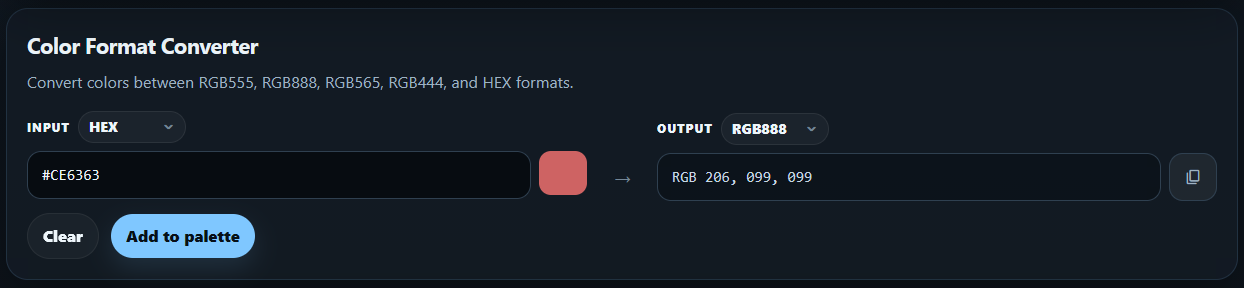
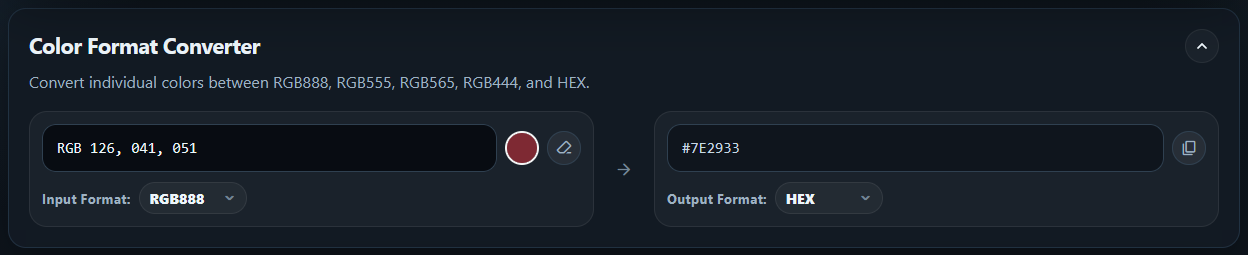
Remove fit button. Update README.md

diff --git a/js/sprite-recolorer.js b/js/sprite-recolorer.js
@@ -217,19 +217,10 @@ function initSpriteRecolorer() {
       return;
     }
 
-    let scale = spriteZoom;
-    if (spriteZoom === "fit") {
-      const boxes = [originalCanvas.parentElement, previewCanvas.parentElement];
-      const availableWidth = Math.min(...boxes.map(box => Math.max(1, box.clientWidth - 24)));
-      const availableHeight = Math.min(...boxes.map(box => Math.max(1, box.clientHeight - 24)));
-      const maximumScale = Math.min(availableWidth / originalImageData.width, availableHeight / originalImageData.height);
-      scale = Math.max(1, Math.min(8, Math.floor(maximumScale)));
-    }
-
-    originalCanvas.style.width = `${originalImageData.width * scale}px`;
-    originalCanvas.style.height = `${originalImageData.height * scale}px`;
-    previewCanvas.style.width = `${originalImageData.width * scale}px`;
-    previewCanvas.style.height = `${originalImageData.height * scale}px`;
+    originalCanvas.style.width = `${originalImageData.width * spriteZoom}px`;
+    originalCanvas.style.height = `${originalImageData.height * spriteZoom}px`;
+    previewCanvas.style.width = `${originalImageData.width * spriteZoom}px`;
+    previewCanvas.style.height = `${originalImageData.height * spriteZoom}px`;
   }
 
   function recolorSprite() {
@@ -536,14 +527,10 @@ function initSpriteRecolorer() {
 
   zoomButtons.forEach(button => {
     button.addEventListener("click", () => {
-      spriteZoom = button.dataset.zoom === "fit" ? "fit" : Number(button.dataset.zoom);
+      spriteZoom = Number(button.dataset.zoom);
       zoomButtons.forEach(btn => btn.classList.toggle("active", btn === button));
       applySpriteZoom();
     });
-  });
-
-  window.addEventListener("resize", () => {
-    if (spriteZoom === "fit") applySpriteZoom();
   });
 
   resetSwapColorsBtn.addEventListener("click", () => {

diff --git a/index.html b/index.html
@@ -225,7 +225,6 @@
               <button class="zoom-btn active" type="button" data-zoom="1">1×</button>
               <button class="zoom-btn" type="button" data-zoom="2">2×</button>
               <button class="zoom-btn" type="button" data-zoom="4">4×</button>
-              <button class="zoom-btn" type="button" data-zoom="fit">Fit</button>
             </div>
           </div>
         </div>

diff --git a/README.md b/README.md
@@ -1,150 +1,172 @@
 # RetroColorLab
 
-RetroColorLab is a client-side toolkit for the color workflows behind pixel art and retro games. It combines color-format conversion, reusable palette management, and real-time sprite recoloring in one focused interface.
+**A local-first color workflow for pixel art and retro game graphics.**
 
-The project is built with vanilla JavaScript and the Canvas API. Images and palettes are processed locally, saved palettes persist in IndexedDB, and the application requires no account, backend, build step, or server-side image handling.
+RetroColorLab converts constrained color formats, extracts and remaps sprite colors in real time, and builds reusable palette libraries—all in the browser. Uploaded artwork and saved palettes stay on the user's device; there is no account, backend, build pipeline, or server-side image processing.
 
-It is designed for pixel artists, retro game developers, and ROM hackers working with constrained-color systems such as the Game Boy Color, GBA, NES, and SNES.
+**Current implementation:** July 20, 2026
 
-**[Live demo →](https://mwalton1204.github.io/RetroColorLab/)**
+**[Open the live application →](https://mwalton1204.github.io/RetroColorLab/)**
 
----
+## Engineering highlights
 
-## Project highlights
+- **Real-time pixel processing:** deduplicates opaque source colors from `ImageData` and recolors pixels through an RGB lookup map.
+- **Shared color pipeline:** one parser and formatter supports RGB888, RGB555, RGB565, RGB444, and HEX across every tool.
+- **Local-first persistence:** palettes, color names, folders, and manual ordering are stored in IndexedDB.
+- **Interoperable palette files:** reads and writes JASC PAL, GIMP GPL, and plain-text RGB formats without assuming that a `.pal` extension identifies its encoding.
+- **Pixel-art-safe previewing:** uses integer-only 1×, 2×, and 4× display scaling with disabled image smoothing.
+- **Framework-free architecture:** vanilla JavaScript, Canvas, IndexedDB, semantic HTML, and CSS; no bundler or installation step.
 
-- **A complete browser-based workflow:** convert retro color formats, build reusable palettes, apply them to sprites, and export the result without leaving the page
-- **Purpose-built image processing:** unique sprite colors are detected from raw pixel data and recolored in real time through an efficient lookup-based canvas pass
-- **Pixel-art-aware previews:** zoom modes use integer scaling so artwork remains crisp and representative at every supported size
-- **Shared application state:** palettes created manually or extracted from sprites use the same IndexedDB-backed library and can move between tools
-- **Privacy by design:** uploaded artwork never leaves the browser
+## Core tools
 
----
+### 1. Color Format Converter
 
-## Features
+![RetroColorLab Color Format Converter](assets/ConverterScreenshot.png)
 
-### Color Format Converter
+Convert a single color between RGB888, RGB555, RGB565, RGB444, and HEX. Input and output formats are independent, the preview uses the same shared color-picker component as the rest of the application, and the result can be copied immediately.
 
-<img src="assets/ConverterScreenshot.png" alt="RetroColorLab Color Format Converter" />
+### 2. Sprite Lab
 
-- Convert individual colors between **RGB888, RGB555, RGB565, RGB444, and HEX**
-- Choose input and output formats independently
-- Enter a value manually or use the integrated color picker
-- Copy the converted value with one click
+![RetroColorLab Sprite Lab](assets/SpriteLabScreenshot.png)
 
-### Sprite Lab
+Sprite Lab turns an uploaded PNG, JPEG, WebP, or GIF into an editable color map. It detects unique non-transparent colors, renders original and recolored canvases side by side, and applies changes without re-uploading the source image.
 
-<img src="assets/SpriteLabScreenshot.png" alt="RetroColorLab Sprite Lab" />
+Key capabilities include:
 
-- Upload or drag and drop PNG, JPEG, WebP, and GIF images
-- Detect every unique non-transparent color automatically
-- Replace colors with individual color pickers and see the recolored sprite update immediately
-- Rename palette entries inline
-- Drag and drop colors to rearrange their palette order
-- Reset an individual color or the entire palette
-- Convert the complete working palette to grayscale with one click
-- Hover over the original sprite to highlight its matching color row; click to pin the selection and press Esc to clear it
-- Compare the original and recolored images side by side
-- Inspect pixel art at integer-only **1×, 2×, 4×, or Fit** scaling
-- Download the recolored image as a PNG
+- Real-time recoloring with individual reset controls and full-palette grayscale conversion.
+- Drag-reordered colors, persistent names, shared round color pickers, and scroll-aware visual cues.
+- Canvas color inspection: hover a source pixel to highlight its palette row, click to pin it, and press Escape to clear the selection.
+- Editable palette text synchronized with the color controls.
+- JASC, GIMP, RGB888, RGB555, RGB565, and RGB444 palette output.
+- Saved-palette search, sorting, loading, and semantic white/black slot matching.
+- Recolored PNG download and crisp integer 1×, 2×, and 4× preview scaling.
 
-### Sprite Palette Tools
+### 3. Palette Manager
 
-- View and edit the working palette as text; valid edits are applied back to the recolored sprite
-- Select **JASC (.pal), GIMP (.gpl), RGB888, RGB555, RGB565, or RGB444** palette output
-- Copy or download the current palette in the selected format
-- Save the current sprite palette to the shared local palette library, using the sprite filename as the suggested palette name
-- Load a saved palette from the library and apply it to the current sprite
-- Match white and black entries semantically when applying compatible saved palettes
+![RetroColorLab Palette Manager](assets/PaletteManagerScreenshot.png)
 
-### Palette Manager
+Palette Manager is a full local palette library, not just an export form. Users can create named colors, edit the palette as controls or text, import ambiguous palette files with an explicit format choice, and reopen saved palettes for debounced autosaving.
 
-- Create required-name palettes without uploading a sprite
-- Add and edit colors directly in the Palette Manager
-- Edit colors with the same picker used by Sprite Lab's Color Manager and name each color inline
-- Drag colors to reorder them, or copy and delete individual entries with compact row actions
-- View and edit a synchronized text representation of the working palette
-- Select **JASC (.pal), GIMP (.gpl), RGB888, RGB555, RGB565, or RGB444** palette output
-- Copy or download the complete palette in the selected format
-- Import `.pal`, `.gpl`, and `.txt` files, then explicitly select the format used by the file contents before parsing
-- Save palettes and color names locally in IndexedDB; changes to reopened palettes autosave after edits
-- Search and sort saved palettes by date, name, or color count
-- Create, rename, collapse, and delete palette folders; drag saved palettes between folders or back into the Unfiled group (deleting a folder preserves its palettes in Unfiled)
-- Preview every saved palette as an ordered, evenly divided color strip
-- Reopen or delete saved palettes from the full-height, independently scrollable library
-- Share the same saved-palette library with Sprite Lab
+Key capabilities include:
 
----
+- Required palette names, editable color names, synchronized palette text, and shared file-format support.
+- Copy, download, format-aware import, autosave, delete confirmation, and universal toast feedback.
+- Searchable and sortable unfiled palettes with compact ordered color-strip previews.
+- Collapsible folder cards with create, rename, and delete workflows.
+- Persistent drag-and-drop ordering for folders and palettes inside folders; cross-folder moves remain supported.
+- Independent, resizable library viewports with overflow fades and scrollbars.
+- A shared IndexedDB library that is immediately available inside Sprite Lab.
 
-## Implementation highlights
+## Architecture and implementation
 
-RetroColorLab uses a small, dependency-light architecture organized around focused JavaScript files rather than a framework or bundler.
+The application is organized as small browser modules with shared format, export, storage, picker, and UI layers. Tool controllers own their DOM state, while common data transformations remain independent of the interface.
 
-- **Canvas-based recoloring:** images are read into `ImageData`, unique opaque RGB values are deduplicated, and replacement colors are applied through a lookup map in a single pass
-- **Shared color model:** the converter, Sprite Lab, and Palette Manager use the same parsing and formatting utilities for RGB888, RGB555, RGB565, RGB444, and HEX
-- **Format-aware color controls:** Pickr is extended with custom inputs that understand the project's retro color formats instead of accepting only HEX
-- **Persistent local library:** IndexedDB stores named palettes created in Palette Manager or captured from Sprite Lab; reopened Palette Manager entries use debounced autosaving and flush pending edits before switching palettes
-- **Persistent palette organization:** IndexedDB also stores named palette folders and each palette's optional folder assignment
-- **Shared palette file pipeline:** Palette Manager and Sprite Lab use the same JASC, GIMP, RGB888, RGB555, RGB565, and RGB444 generation and parsing utilities
-- **Explicit import interpretation:** Palette Manager asks which format is stored inside an imported file instead of assuming its encoding from an ambiguous extension such as `.pal`
-- **Semantic palette matching:** saved sprite palettes retain information about white and black slots so those colors can be matched by identity when applied to another sprite
-- **Responsive integer scaling:** Fit mode calculates the largest whole-number scale supported by the available preview area
-- **Client-side privacy:** `FileReader`, Canvas, and IndexedDB keep uploaded artwork and user-created palettes on the device
-- **Universal notifications:** feedback is routed through a fixed page-wide toast that floats above the interface without shifting nearby controls
+Important implementation choices:
 
----
+- Sprite recoloring works from an immutable source `ImageData` snapshot, preventing cumulative color degradation across edits.
+- Palette text and visual controls pass through the same normalized RGB888 color model.
+- Reopened palettes debounce routine saves and flush pending changes before switching records.
+- Folder deletion uses one IndexedDB transaction to remove the folder and preserve its palettes by moving them to Unfiled.
+- Drag ordering is stored as numeric positions rather than inferred from names or timestamps.
+- Fixed, page-level toasts provide feedback without changing document layout.
+
+## IndexedDB table design
+
+Database: `retropalettelab` · Version: `2`
+
+### `palettes`
+
+| Field | Type | Purpose |
+|---|---|---|
+| `id` | Number | Auto-incrementing primary key |
+| `name` | String | Required display name |
+| `savedAt` | ISO date string | Last save time; supports date sorting |
+| `colors` | Array | Ordered color records, including replacement HEX and color name |
+| `hasWhite` / `hasBlack` | Boolean | Preserves semantic endpoint slots for sprite palette matching |
+| `source` | String | Identifies the creating workflow when supplied |
+| `folderId` | Number or `null` | Application-managed reference to `paletteFolders.id`; `null` means Unfiled |
+| `folderOrder` | Number | Persistent position within a folder |
+
+### `paletteFolders`
+
+| Field | Type | Purpose |
+|---|---|---|
+| `id` | Number | Auto-incrementing primary key |
+| `name` | String | User-defined folder name |
+| `createdAt` | ISO date string | Stable creation metadata and fallback ordering |
+| `sortOrder` | Number | Persistent folder-card position |
+
+The stores intentionally use a small document-style schema. Palette-to-folder relationships are maintained in application transactions, which keeps records portable and makes folder deletion behavior explicit.
+
+## Selected key functions
+
+Only the functions central to the engineering story are listed here.
+
+| Function | Responsibility |
+|---|---|
+| `parsePalette()` | Validates and normalizes RGB888, RGB555, RGB565, RGB444, and HEX input |
+| `formatOutput()` | Converts the normalized color model into the selected representation |
+| `buildPaletteFiles()` | Produces interoperable JASC, GIMP, RGB text, HEX, CSV, and manifest content |
+| `parsePalettePreviewText()` | Parses editable or imported palette text back into normalized colors |
+| `renderSwapControls()` | Reconciles Sprite Lab mappings with interactive rows and color-picker instances |
+| `recolorSprite()` | Applies the current replacement map to source pixels and redraws the preview canvas |
+| `renderLibrary()` | Builds the searchable, folder-aware Palette Manager library and its scroll states |
+| `reorderPalettesInFolder()` | Persists palette moves and positions in a single IndexedDB transaction |
+| `reorderPaletteFolders()` | Persists user-defined folder ordering |
+| `showToast()` | Routes application feedback through one non-layout-shifting notification surface |
+
+## Project file architecture
+
+```text
+retropalettelab/
+├── index.html                 # Semantic application shell, dialogs, and tool panels
+├── css/
+│   └── styles.css             # Responsive layout and shared component/state styling
+├── js/
+│   ├── main.js                # Initialization, reload cleanup, and collapsible sections
+│   ├── converter.js           # Color Format Converter controller
+│   ├── sprite-recolorer.js    # Sprite analysis, Canvas recoloring, preview, and palette workflow
+│   ├── palette-builder.js     # Palette editor, folder library, autosave, and drag interactions
+│   ├── color-formats.js       # Shared color validation, normalization, and conversion
+│   ├── palette-export.js      # Palette ordering, serialization, and text parsing
+│   ├── palette-storage.js     # IndexedDB schema and transactional persistence
+│   ├── pickr-enhancements.js  # Shared format-aware color-picker adapter
+│   ├── format-menus.js        # Accessible custom format-menu behavior
+│   └── ui-utils.js            # Toasts, clipboard, filenames, escaping, and Canvas blobs
+├── assets/
+│   ├── ConverterScreenshot.png
+│   ├── SpriteLabScreenshot.png
+│   └── PaletteManagerScreenshot.png
+├── ROADMAP.md                 # Current TODO and deferred work
+└── LICENSE                    # MIT license
+```
 
 ## Run locally
 
-Open `index.html` directly in a browser, or serve the project directory with a simple local server:
+RetroColorLab has no package installation or build command. Open `index.html` directly, or serve the directory locally:
 
 ```bash
 python -m http.server 8000
 ```
 
-Then open `http://localhost:8000`.
+Then visit `http://localhost:8000`.
 
-No installation or build command is required.
+## Browser APIs and dependencies
 
----
-
-## Project structure
-
-```text
-retropalettelab/
-├── index.html
-├── css/
-│   └── styles.css
-└── js/
-    ├── main.js               # Application initialization
-    ├── color-formats.js      # Shared color parsing and formatting
-    ├── converter.js          # Color Format Converter behavior
-    ├── sprite-recolorer.js   # Sprite detection, recoloring, preview, and palette workflow
-    ├── palette-builder.js    # Standalone Palette Manager and saved-palette library
-    ├── palette-export.js     # Palette file generation and parsing
-    ├── palette-storage.js    # IndexedDB palette persistence
-    ├── format-menus.js       # Custom format-selector behavior
-    ├── pickr-enhancements.js # Format-aware Pickr controls
-    └── ui-utils.js           # Shared browser and interface utilities
-```
-
----
-
-## Dependencies
-
-Dependencies are loaded from a CDN; no npm install is required.
-
-| Library | Purpose |
+| Technology | Role |
 |---|---|
-| [Pickr](https://github.com/Simonwep/pickr) | Color picker interface |
-| [Material Symbols](https://fonts.google.com/icons) | Interface icons |
+| Canvas 2D / `ImageData` | Pixel inspection, color extraction, recoloring, and PNG output |
+| IndexedDB | Persistent palettes, folders, metadata, and manual ordering |
+| FileReader / Blob / Object URLs | Local import and download workflows |
+| [Pickr](https://github.com/Simonwep/pickr) | Color-picker UI, extended with RetroColorLab format fields |
+| [JSZip](https://stuk.github.io/jszip/) | Client-side ZIP generation for export workflows |
+| [Material Symbols](https://fonts.google.com/icons) | Consistent interface iconography |
 
----
+Uploaded images and palette files are processed locally and are never sent to an application server.
 
-## TODO
+## Next steps
 
-See [ROADMAP.md](ROADMAP.md) for the current task list and deferred ideas.
-
----
+See [ROADMAP.md](ROADMAP.md) for the focused TODO list and deferred ideas.
 
 ## License
 

diff --git a/ROADMAP.md b/ROADMAP.md
@@ -5,10 +5,7 @@ Working task list for RetroColorLab, in no particular order.
 ## To do
 
 - **Spritesheet splitting & animation preview** — basic tools to slice a spritesheet into frames and preview the animation
-- **Palette Manager cleanup and UI/UX pass** — simplify and polish palette organization, editing, importing, saving, and downloading without losing functionality
-- **Unify modal design** — give dialogs consistent structure, spacing, controls, and behavior
 - **Unify design across the page** — align shared components, spacing, typography, interaction states, and responsive behavior
-- **Content and copy improvements** — revise headings, descriptions, labels, empty states, tooltips, and feedback messages for greater clarity and consistency across the page
 - **Theme improvements and light/dark modes** — refine the visual theme and introduce polished light and dark appearances with an accessible theme switcher
 
 ## Deferred
